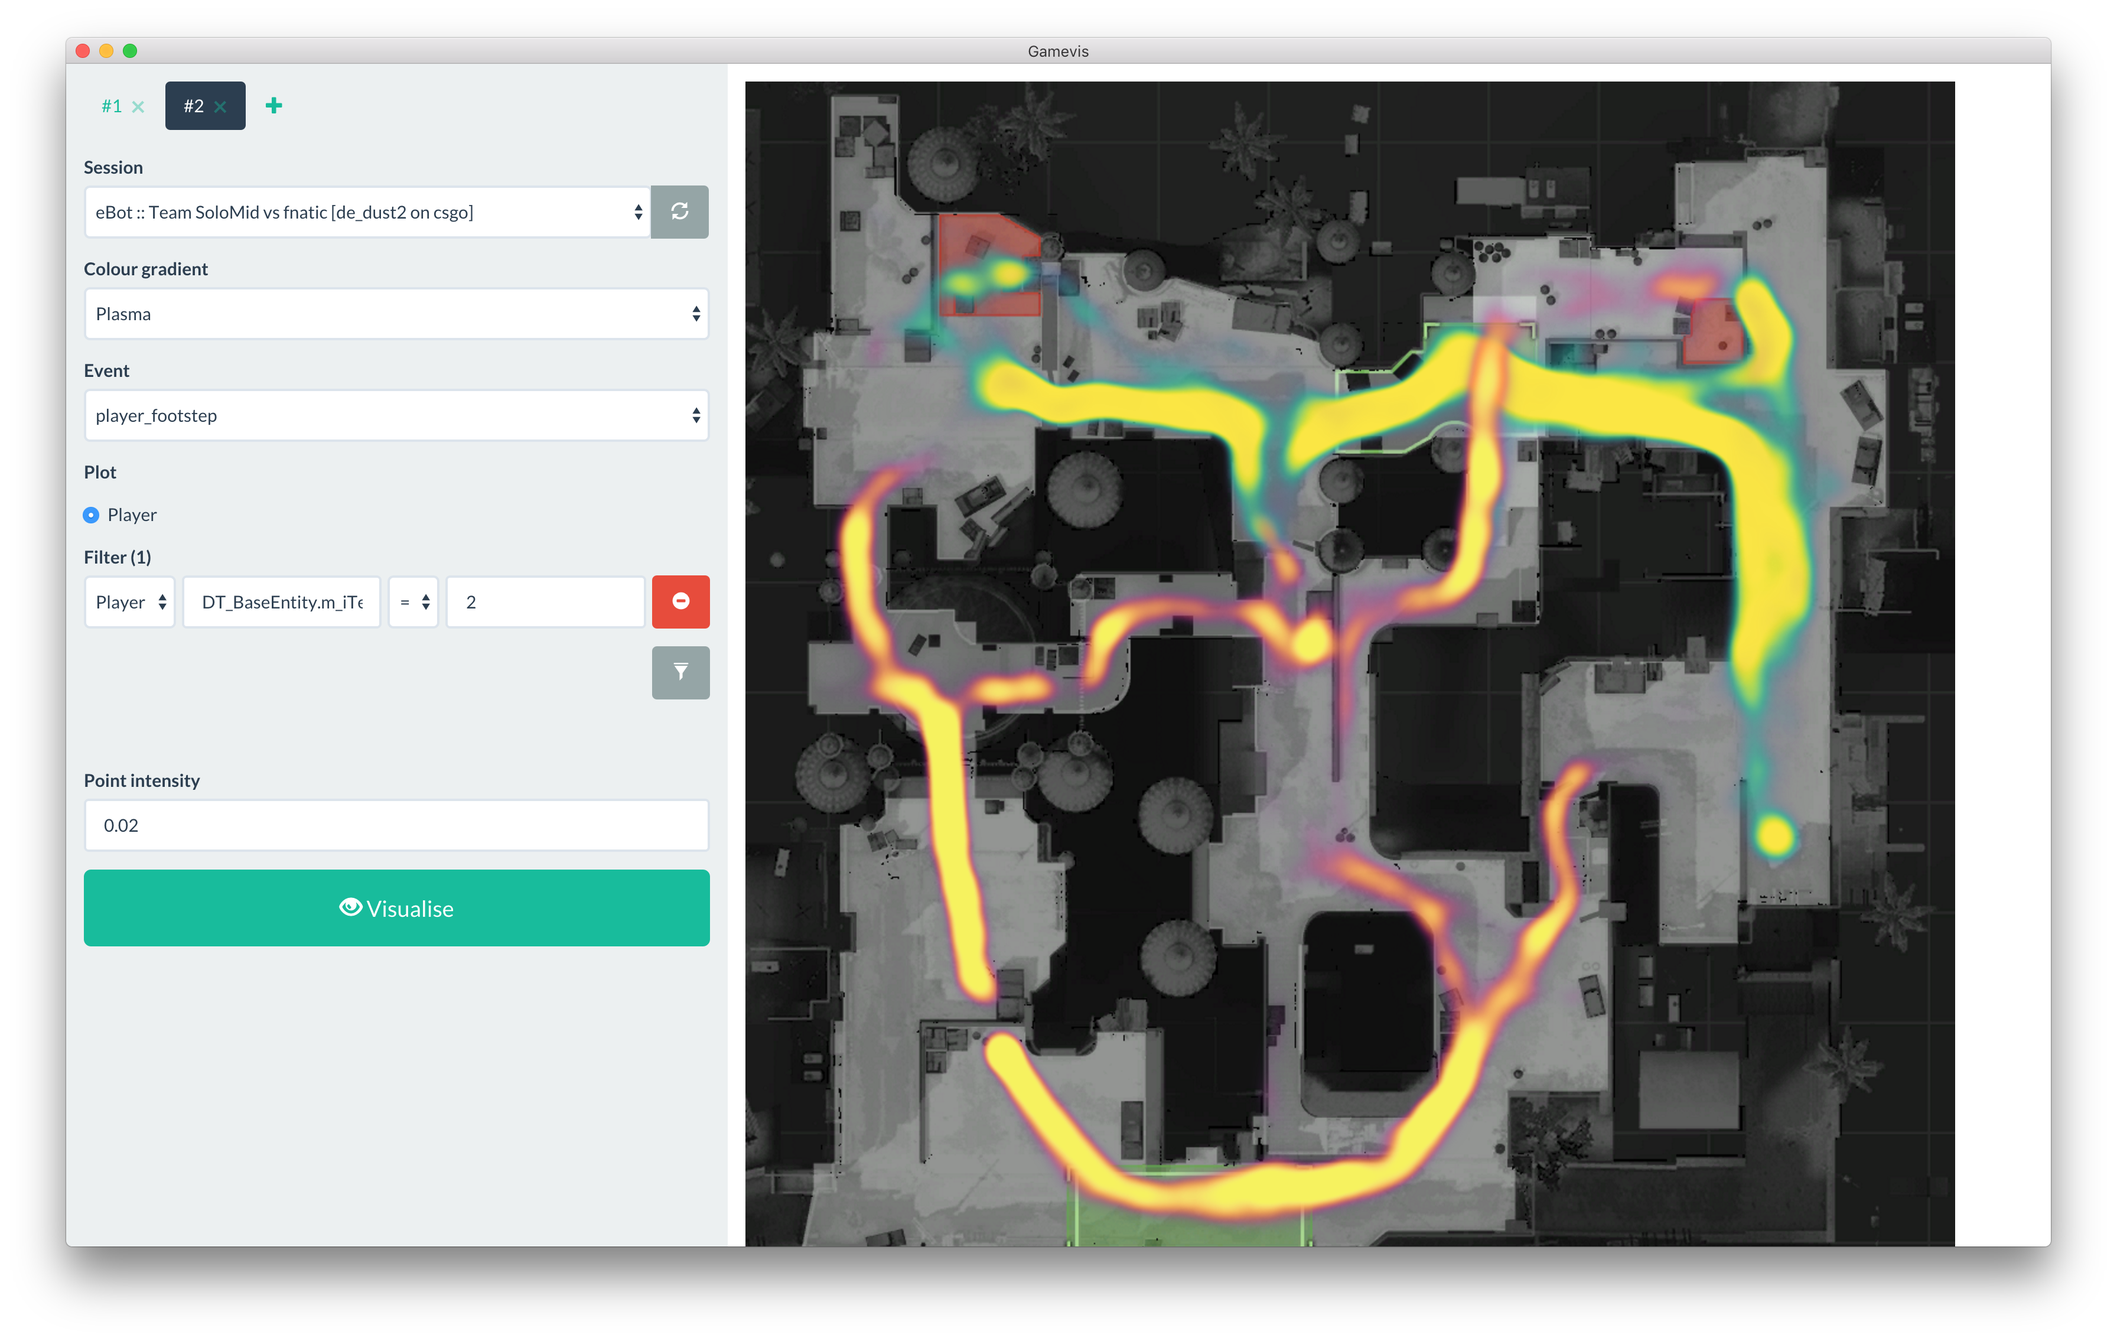
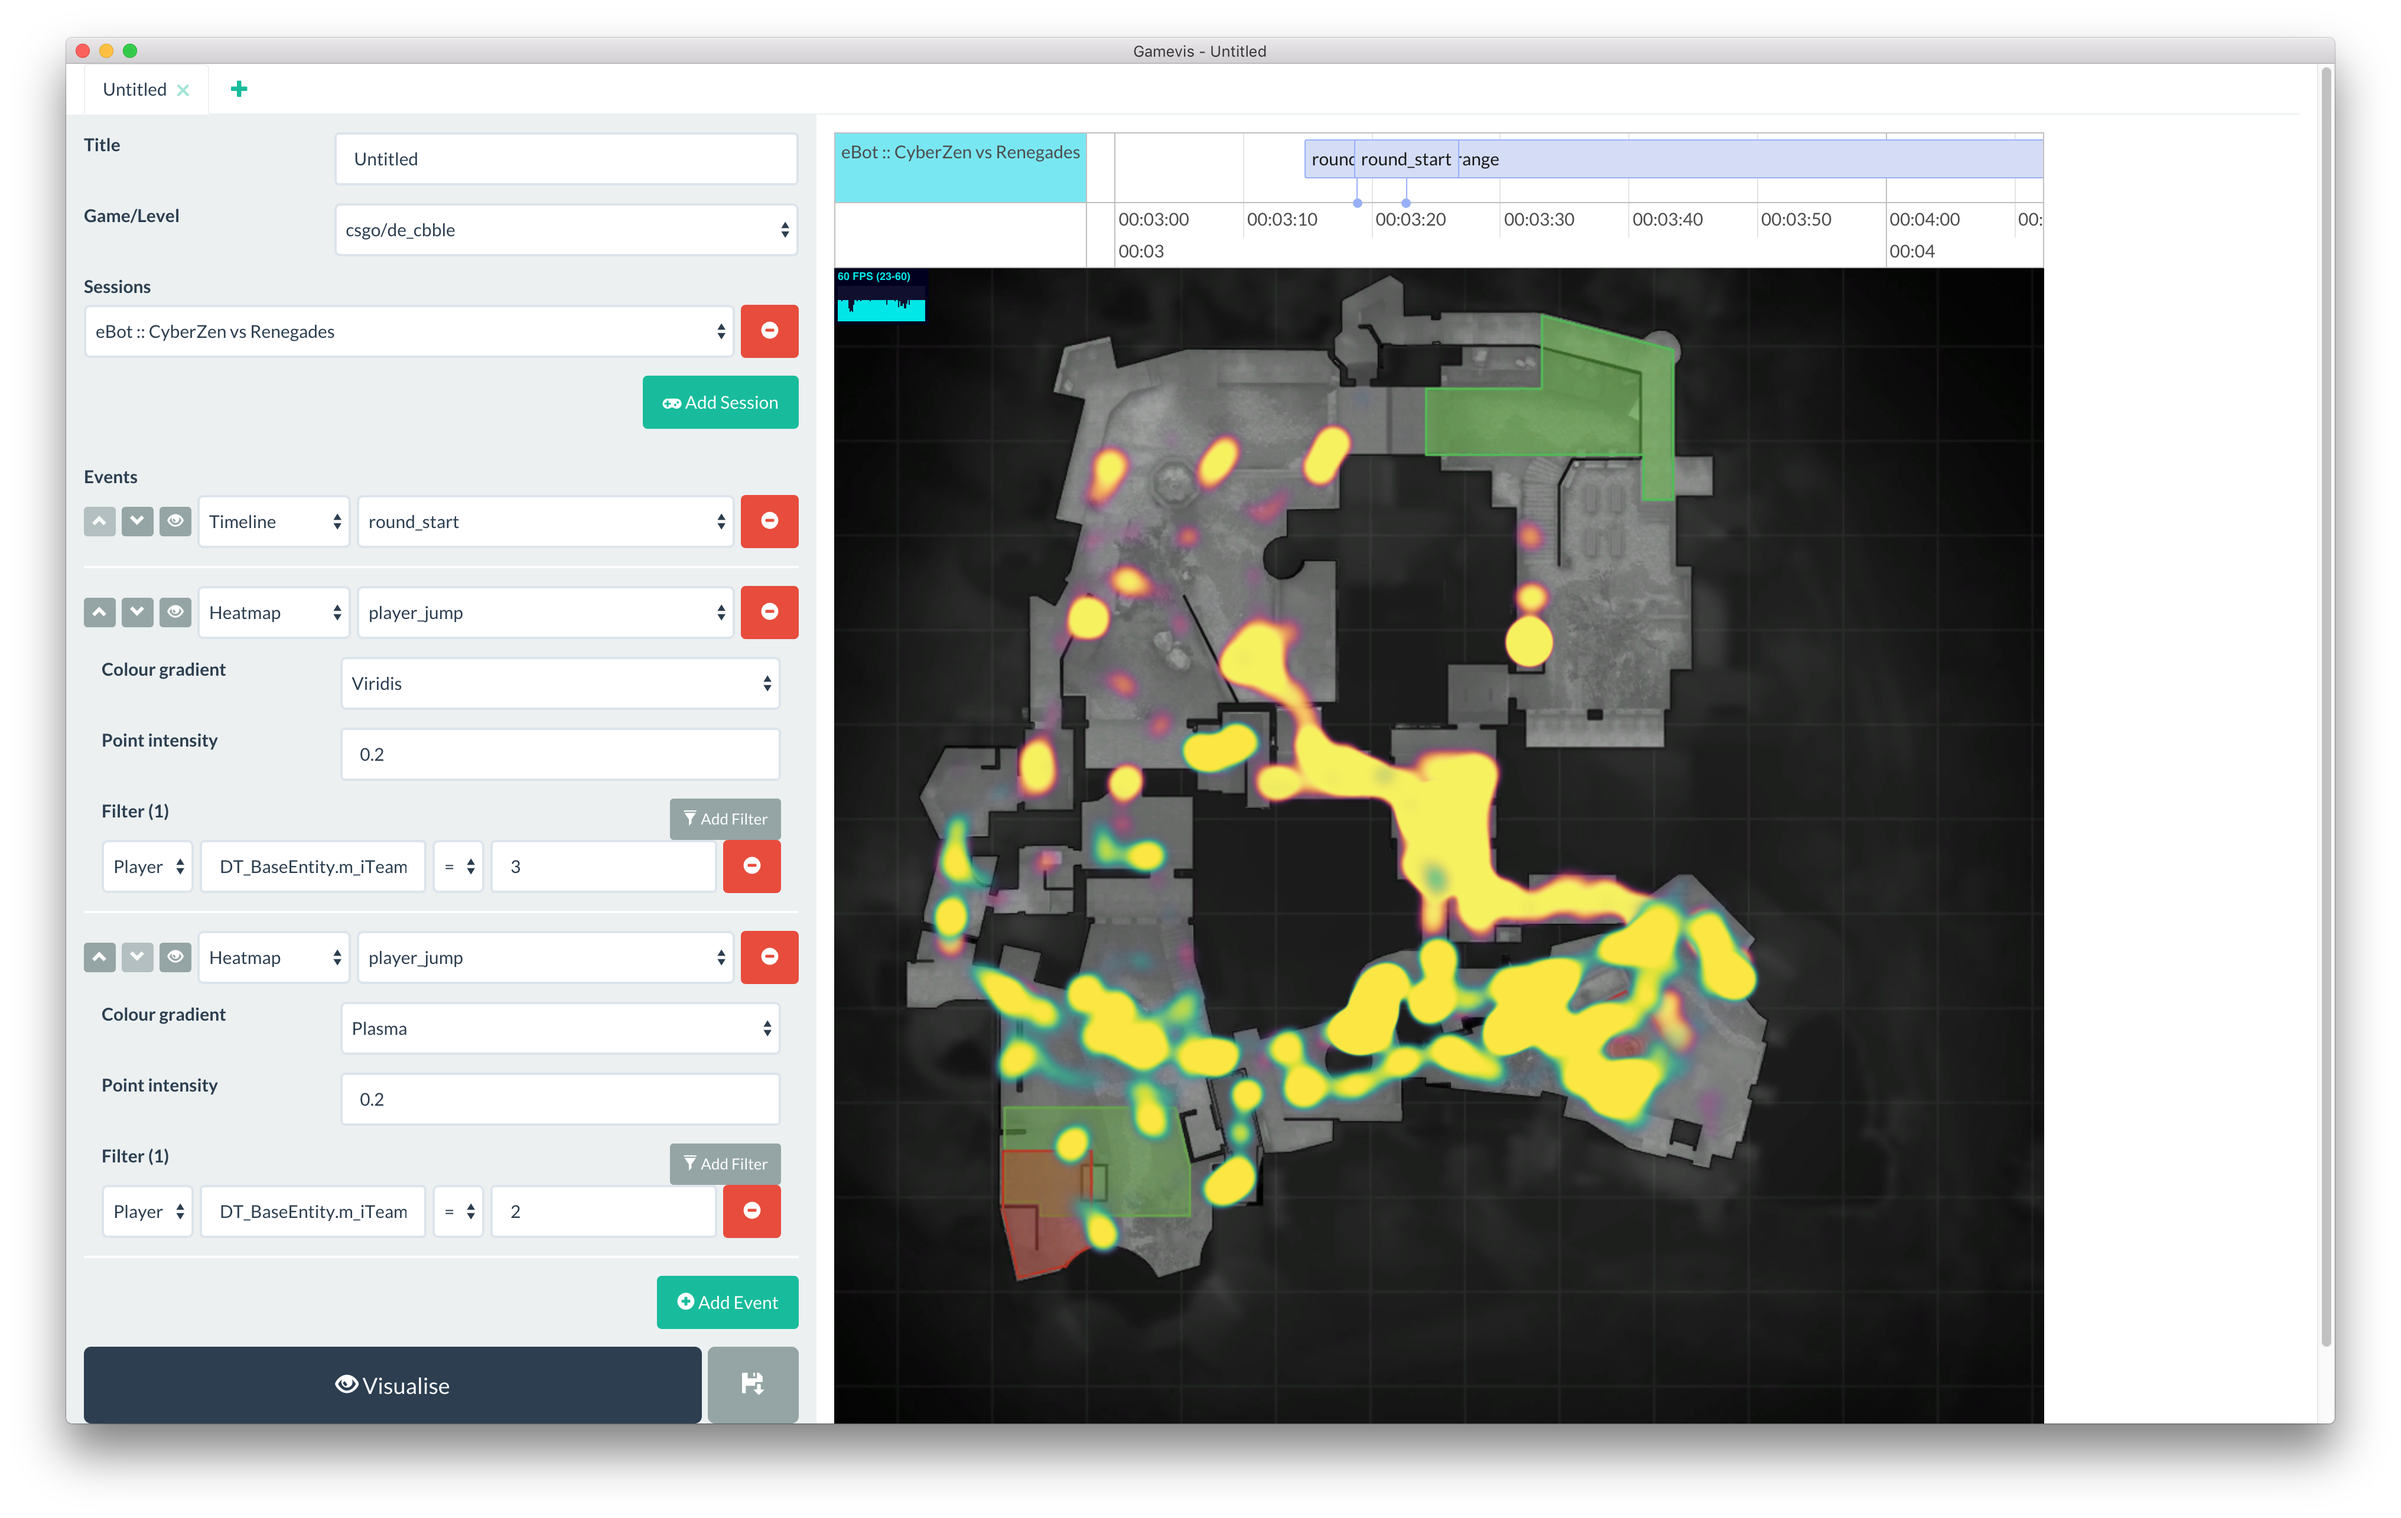
Updated README

diff --git a/README.md b/README.md
@@ -14,8 +14,12 @@ Screenshot demonstrating two layered heatmap visualisations:
 
 ## Visualisations
 
-* **Heatmaps**, many may be layered (as demonstrated in screenshot).
-* More to come soon!
+Multiple visualisations can be show on a single visualisation (as shown in the screenshot):
+
+* Heatmaps
+* Timeline events (e.g., round start)
+* Discontinuous points (e.g., death location)
+* Continuous points (e.g., player movement)
 
 ## Importers
 
